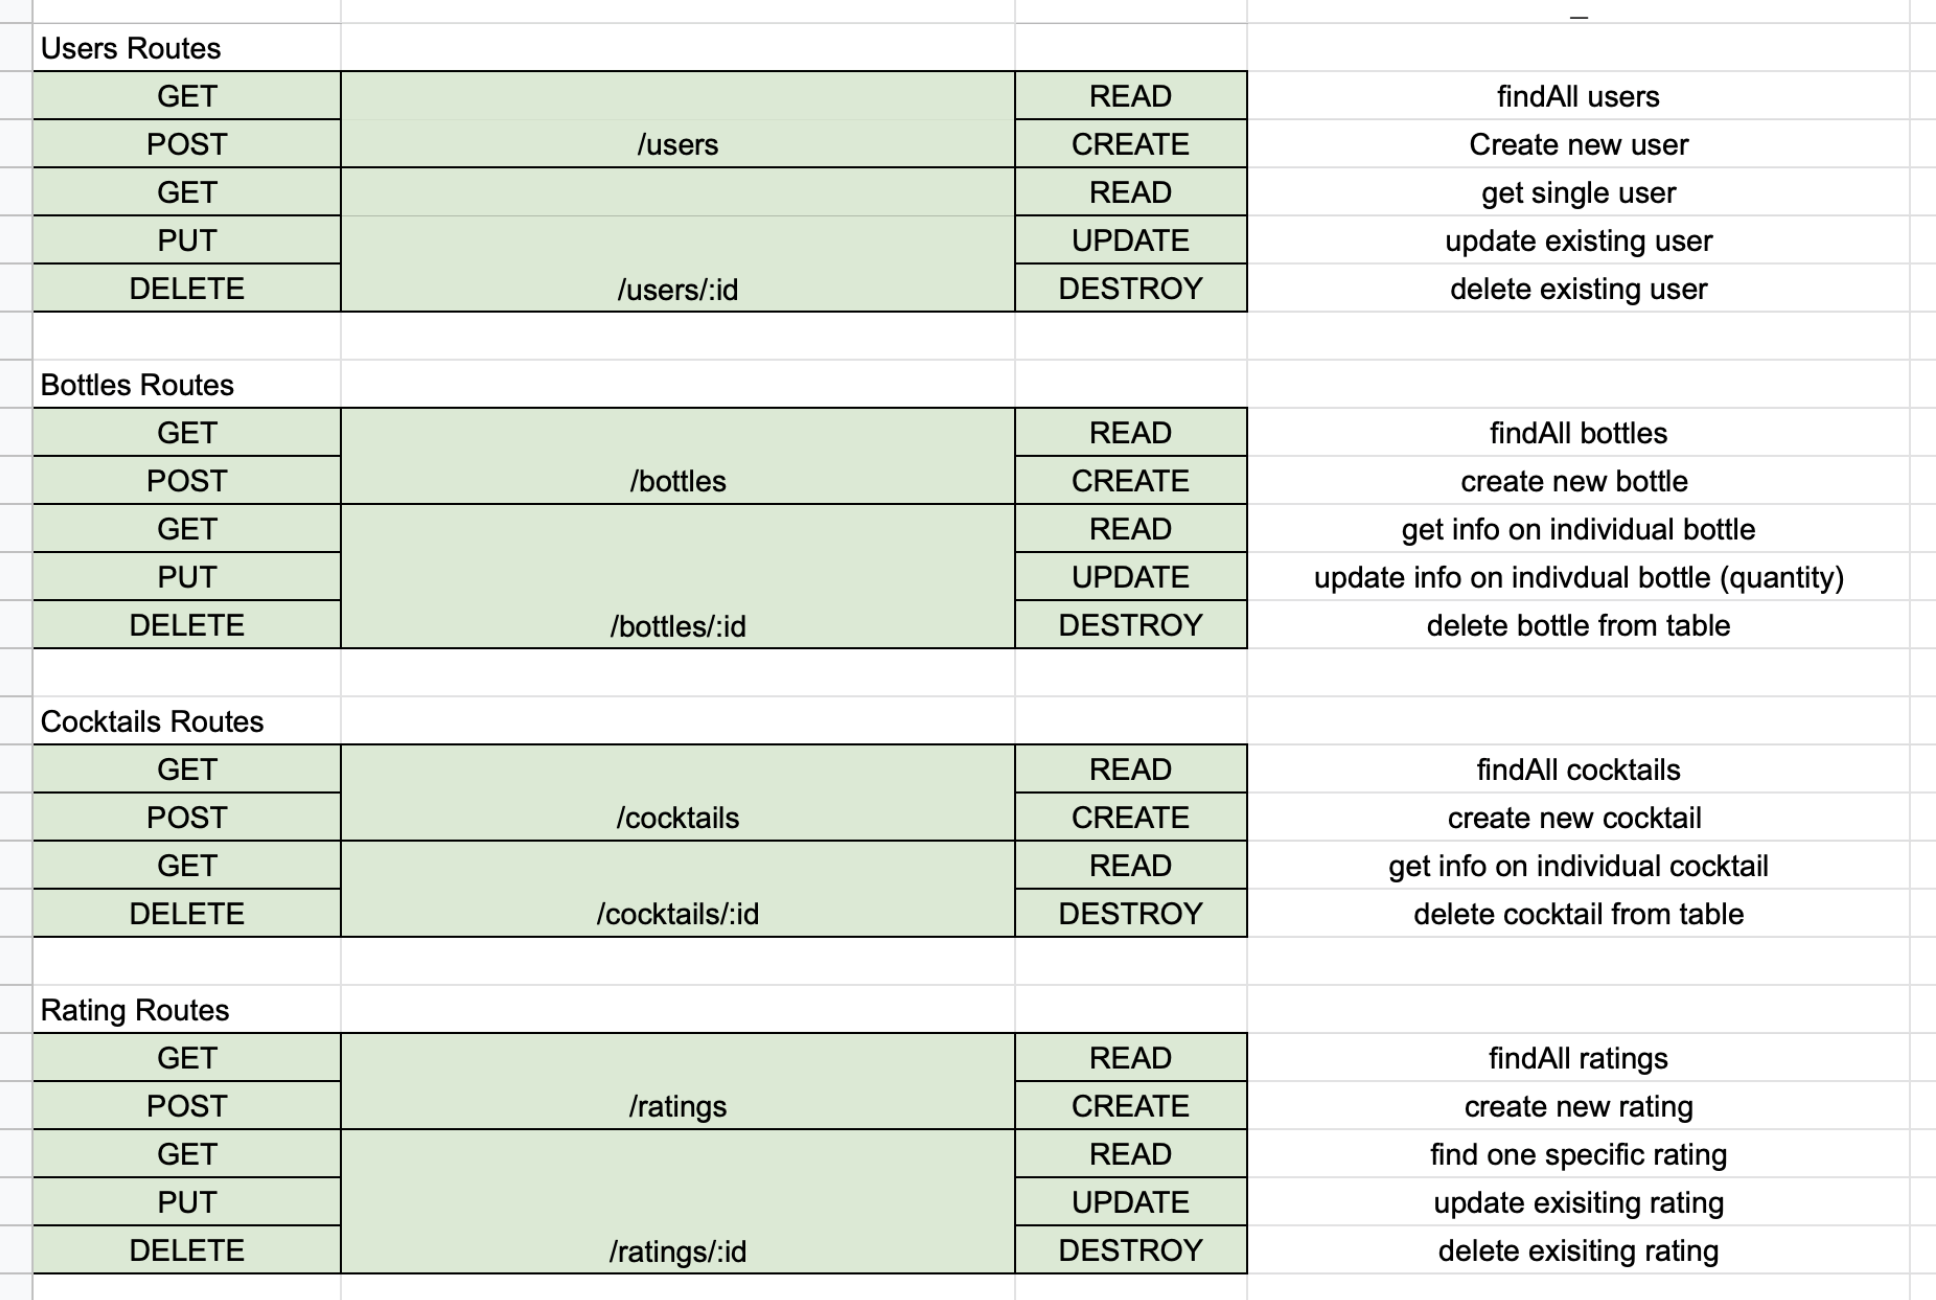
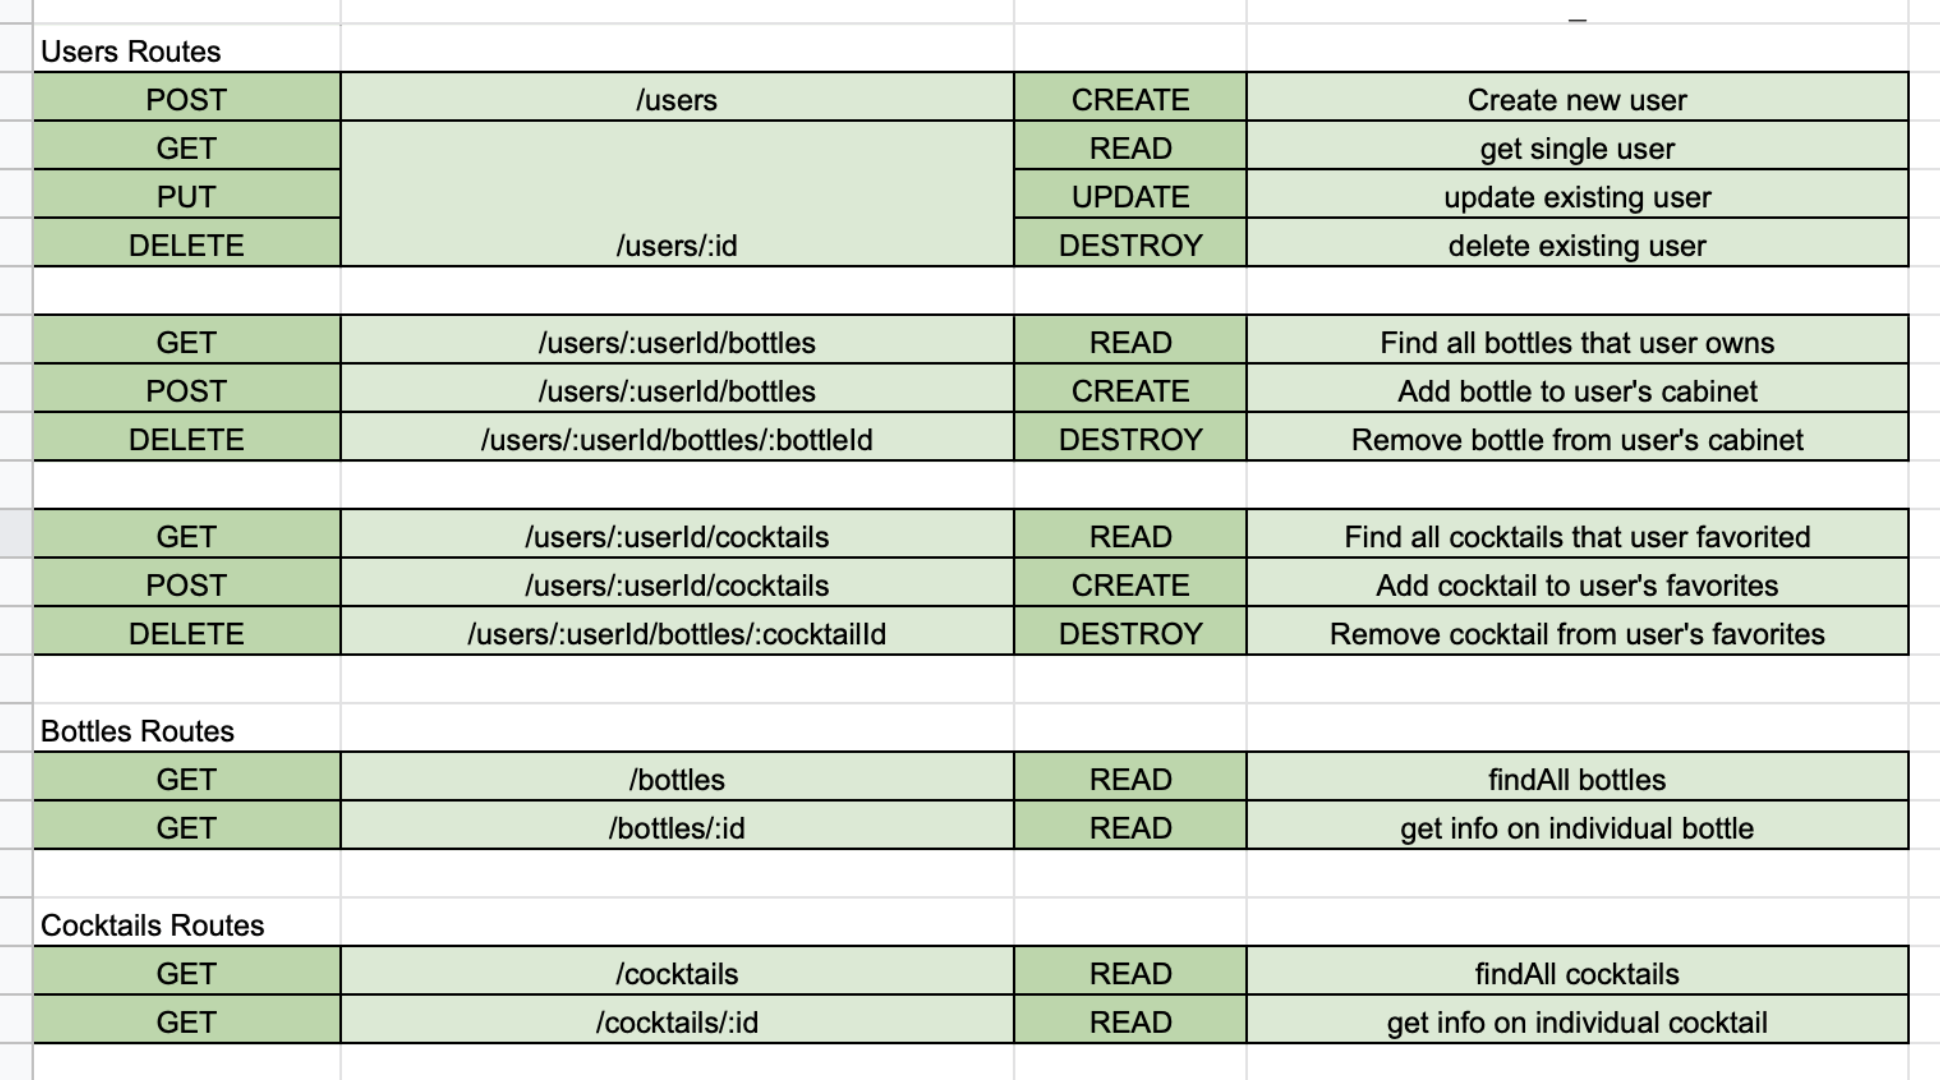
Clean up code, polish styling, finalize project.

diff --git a/public/styles.css b/public/styles.css
@@ -48,7 +48,7 @@ nav a:hover {
   flex-wrap: wrap;
   justify-content: center;
   align-items: center;
-  width: 800px;
+  width: 1000px;
   margin: auto;
 }
 
@@ -67,8 +67,8 @@ nav a:hover {
   flex-direction: column;
   justify-content: center;
   align-items: center;
-  width: 200px;
-  height: 200px;
+  width: 220px;
+  height: 220px;
 }
 
 .bottle {
@@ -76,8 +76,13 @@ nav a:hover {
   flex-direction: column;
   justify-content: center;
   align-items: center;
-  padding: 10px;
+  padding: 15px;
   width: 200px;
+}
+
+.bottle p {
+  margin-top: 5px;
+  margin-bottom: 5px;
 }
 
 .button-container {
@@ -137,7 +142,7 @@ nav a:hover {
 }
 
 .cocktail-info {
-  width: 400px;
+  width: 500px;
   margin: auto;
 }
 

diff --git a/controllers/cocktailsController.js b/controllers/cocktailsController.js
@@ -40,19 +40,4 @@ router.get('/:id', async (req, res) => {
   }
 })
 
-// Search cocktail by name
-router.get(':id/search', async (req, res) => {
-  console.log(req.query);
-  try {
-    const cocktail = req.query.cocktail
-    console.log(cocktail);
-    // const cocktailURL = `https://www.thecocktaildb.com/api/json/v1/1/search.php?s=${cocktail}`
-    // const response = await axios.get(cocktailURL)
-    // const cocktails = response.data.drinks
-    // res.render('cocktails/search', {cocktails, cocktail})
-  } catch (error) {
-    console.log(error);
-  }
-})
-
 module.exports = router

diff --git a/server.js b/server.js
@@ -41,8 +41,6 @@ app.use(async (req, res, next) => {
 app.use('/users', require('./controllers/usersController.js'))
 app.use('/bottles', require('./controllers/bottlesController.js'))
 app.use('/cocktails', require('./controllers/cocktailsController.js'))
-app.use('/ratings', require('./controllers/ratingsController.js'))
-app.use('/comments', require('./controllers/commentsController.js'))
 
 /* Routes */
 app.get('/', (req, res) => {

diff --git a/models/cocktail.js b/models/cocktail.js
@@ -12,9 +12,6 @@ module.exports = (sequelize, DataTypes) => {
     static associate(models) {
       // define association here
       models.cocktail.belongsToMany(models.user, { through: 'users_cocktails'})
-      models.cocktail.belongsToMany(models.bottle, { through: 'bottles_cocktails'})
-      models.cocktail.hasMany(models.rating)
-      models.cocktail.hasMany(models.comment)
     }
   };
   cocktail.init({

diff --git a/models/user.js b/models/user.js
@@ -13,8 +13,6 @@ module.exports = (sequelize, DataTypes) => {
       // define association here
       models.user.belongsToMany(models.bottle, { through: 'users_bottles'})
       models.user.belongsToMany(models.cocktail, { through: 'users_cocktails'})
-      models.user.hasMany(models.rating)
-      models.user.hasMany(models.comment)
     }
   };
   user.init({

diff --git a/models/bottle.js b/models/bottle.js
@@ -12,7 +12,6 @@ module.exports = (sequelize, DataTypes) => {
     static associate(models) {
       // define association here
       models.bottle.belongsToMany(models.user, { through: 'users_bottles'})
-      // models.bottle.belongsToMany(models.cocktail, { through: 'bottles_cocktails'})
     }
   };
   bottle.init({

diff --git a/controllers/usersController.js b/controllers/usersController.js
@@ -93,7 +93,6 @@ router.put('/:id', async (req, res) => {
         id: req.params.id
       }
     })
-    // const user = db.user.findByPk(req.params.id)
     res.redirect('/users/profile')
   } catch (error) {
     console.log(error);

diff --git a/README.md b/README.md
@@ -1,6 +1,6 @@
 # The Cocktail Cabinet #
 
-The cocktail cabinet is an app that allows users to log in and build their digital liquor cabinet. Update your profile with the quantity of bottles you have in your physical liquor cabinet, and then browse through possible cocktails to make using what you have on hand! If you find a recipe that sounds good, save it to your profile to access anytime you log in. Your possible cocktail list will change depending on updates to your liquor cabinet.
+The cocktail cabinet is an app that allows users to log in and build their digital liquor cabinet. Update your profile with the quantity of bottles you have in your physical liquor cabinet. Browse through all sorts of cocktails, sorted by category or by bottle. If you find a recipe that sounds good, save it to your profile. You can log out and log back in anytime you'd like to look through your liquor cabinet or access your favorite recipes!
 
 
 ### MVP goals ###
@@ -9,7 +9,6 @@ Have a sign up page for new users to join the site.\
 Have a login page for user to access site.\
 Look through a page of liquor bottles with a button to add to your collection.\
 Be able to look through collection, updating or deleting bottles.\
-Access list of cocktails based on what's available in your bottle collection.\
 Add cocktails to your saved recipes, with the ability to view and delete them.
 
 
@@ -17,6 +16,7 @@ Add cocktails to your saved recipes, with the ability to view and delete them.
 
 Add a page to view all cocktails, regardless of what's in user's liquor cabinet.\
 Add ability to view recipes, regardless of sign-in.\
+Access list of cocktails based on what's available in your bottle collection.\
 Make it possible for a user to rate cocktails.\
 Be able to see all users ratings aggregated on individual cocktails.\
 Comment on cocktails and see other users comments.\
@@ -29,7 +29,6 @@ Add styling to have liquor bottles sitting on shelf.
 * As a user, I want to login to the site so that I can access my information that I have saved previously.
 * As a user, I want to look through a page of liquor bottles that I can add to my collection so I can keep track of what I have on hand.
 * As a user, I want to browse my collection of liquor bottles so that I can add, subtract, or delete bottles from my list.
-* As a user, I want to look through a list of cocktails recommended to me based on what I've saved in my liquor cabinet, so that I can save them to my favorite recipes.
 * As a user, I want to be able to look at a list my favorite recipes so that I can access them individually or delete them.
 * As a user, I want to be able to logout so that my information is saved in the database, but is not accessible by other users.
 
@@ -85,4 +84,3 @@ I am planning on using The Cocktail DB, which is a free, crowd-sourced API full 
 
 ### RESTful routing chart for your app ###
 ![Routes-1](./img/routes/Routes-1.png)
-![Routes-2](./img/routes/Routes-2.png)
